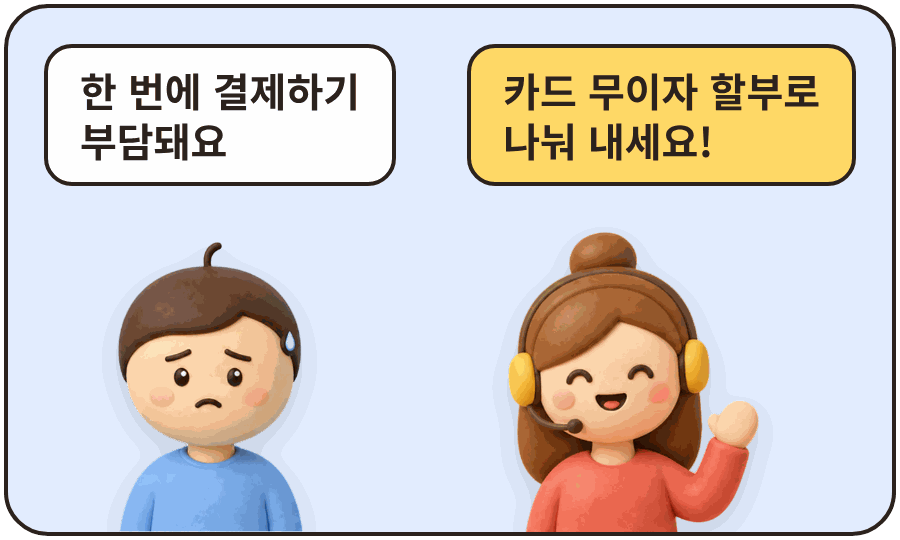
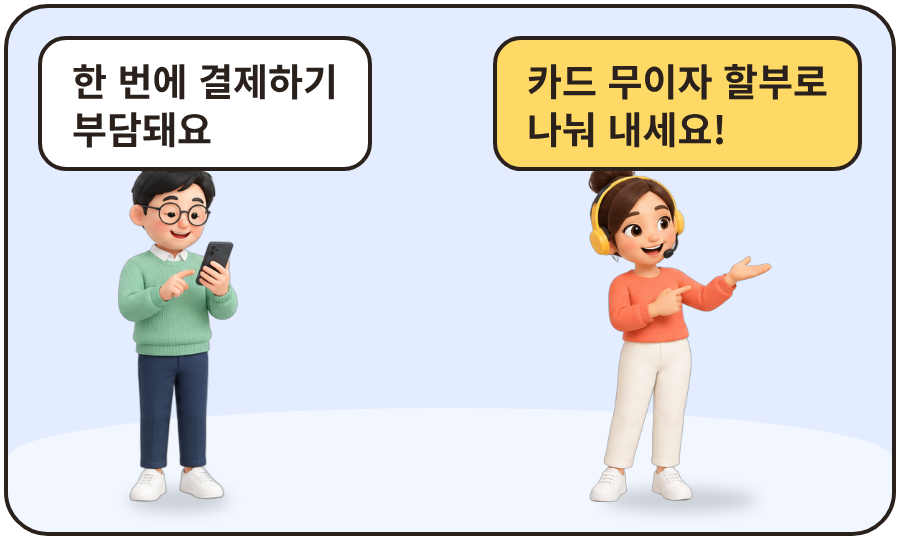
Event posts: redraw with the new 3D cast, no turtle
New fixed 3D cast (student, teacher, adult learner) in tools/3d/cast with
18 cut-out poses and a README on how to make more. compose_cast.py
redraws the banners, scenes and strips of event posts 130, 205, 206,
207, 211 and 887 with them, at the same file names so the posts pick
them up without edits.

Claude-Session: https://claude.ai/code/session_01HUwuhevVJsp4MKRQXDpWmN

diff --git a/tools/3d/compose_cast.py b/tools/3d/compose_cast.py
@@ -1,0 +1,155 @@
+"""3D 출연진(학생·선생님·성인 수강생)으로 이벤트 글 배너와 본문 그림을 만든다. 거북이는 쓰지 않는다.
+사용법: python3 tools/3d/compose_cast.py event
+캐릭터 컷: tools/3d/cast/<인물>-<포즈>.png  (README 참고)
+"""
+import sys, os
+from playwright.sync_api import sync_playwright
+
+root = sys.argv[1]
+HERE = os.path.dirname(os.path.abspath(__file__))
+CAST = 'file://' + HERE + '/cast/'
+PR = 'file://' + HERE + '/props/c_'
+F = "'Noto Sans CJK KR',sans-serif"
+INK = '#2A211D'
+
+
+def ch(name, h, x, bottom=28, flip=False, extra=''):
+    """전신 캐릭터. 발이 잘리지 않게 바닥에서 띄우고 그림자를 깐다."""
+    t = 'transform:scaleX(-1);' if flip else ''
+    return (f'<div style="position:absolute;left:{x}px;bottom:{bottom}px;height:{h}px">'
+            f'<div style="position:absolute;left:8%;right:8%;bottom:-10px;height:{h*.07:.0f}px;border-radius:50%;background:rgba(0,0,0,.16);filter:blur(7px)"></div>'
+            f'<img src="{CAST}{name}.png" style="position:relative;height:{h}px;{t}{extra}"></div>')
+
+
+def prop(name, h, x, y, extra=''):
+    return f'<img src="{PR}{name}.png" style="position:absolute;left:{x}px;top:{y}px;height:{h}px;filter:drop-shadow(0 10px 14px rgba(0,0,0,.14));{extra}">'
+
+
+def big(text, size, color='#fff', stroke=INK, sw=6):
+    return f'<div style="font:900 {size}px/1.02 {F};color:{color};letter-spacing:-.03em;-webkit-text-stroke:{sw}px {stroke};paint-order:stroke fill;white-space:nowrap">{text}</div>'
+
+
+def pill(text, bg='#FFD966', color=INK, size=36):
+    return f'<div style="display:inline-block;background:{bg};border:4px solid {INK};border-radius:40px;padding:8px 28px;font:800 {size}px/1.2 {F};color:{color}">{text}</div>'
+
+
+def line(text, size, color=INK):
+    return f'<div style="font:800 {size}px/1.22 {F};color:{color};letter-spacing:-.02em">{text}</div>'
+
+
+def dots(colors):
+    pts = [(80, 120, 18), (990, 90, 14), (60, 600, 12), (1010, 560, 16), (520, 40, 10), (930, 960, 12)]
+    return ''.join(f'<div style="position:absolute;left:{x}px;top:{y}px;width:{s}px;height:{s}px;border-radius:50%;background:{colors[i % len(colors)]};opacity:.9"></div>' for i, (x, y, s) in enumerate(pts))
+
+
+def floor(color, top=820):
+    return f'<div style="position:absolute;left:-10%;right:-10%;top:{top}px;bottom:-200px;background:{color};border-radius:50% 50% 0 0/80px 80px 0 0"></div>'
+
+
+# ── 배너 1080×1080: 글마다 색·구도가 다르다 ─────────────────────────
+B = {}
+# 130 월 이벤트: 코랄 · 셋이 함께
+B['130'] = f"""<div style="position:absolute;inset:0;background:#EC6856;overflow:hidden">{dots(['#fff', '#FFD966'])}{floor('#F6907F', 800)}
+<div style="position:absolute;left:0;right:0;top:66px;text-align:center">{pill('이번 달 이벤트')}
+<div style="margin-top:22px">{line('아인잉글리쉬', 58, '#fff')}</div><div style="margin-top:2px">{big('혜택 7가지', 156, '#FFD966')}</div>
+<div style="margin-top:18px;display:flex;gap:12px;justify-content:center">{''.join(pill(t, '#fff', INK, 28) for t in ['신규', '재수강', '친구 추천', '누구나'])}</div></div>
+{ch('student-cheer', 500, 40)}{ch('teacher-wave', 540, 400)}{ch('adult-thumbs', 530, 750)}
+</div>"""
+# 206 무이자 할부: 파랑 그라데이션 · 카드 든 성인 수강생
+B['206'] = f"""<div style="position:absolute;inset:0;background:linear-gradient(160deg,#7DB0F7,#4F86E6);overflow:hidden">{dots(['#fff', '#FFD966'])}
+<div style="position:absolute;left:84px;top:110px">{pill('카드 결제 부담 DOWN')}
+<div style="margin-top:34px">{line('5만원 이상이면', 64, '#fff')}</div>
+<div style="margin-top:6px">{big('무이자', 190)}</div><div style="margin-top:4px">{big('할부', 190, '#FFD966')}</div>
+<div style="margin-top:26px">{line('최대 6개월까지', 50, '#fff')}</div></div>
+{prop('prop-card', 230, 560, 150, 'transform:rotate(-12deg)')}
+{ch('adult-card', 700, 640, 40)}
+</div>"""
+# 207 지인 추천: 초록 · 추천하는 수강생 + 친구
+B['207'] = f"""<div style="position:absolute;inset:0;background:radial-gradient(circle at 50% 30%,#7CD6A0,#3FAE72);overflow:hidden">{dots(['#fff', '#FFD966'])}
+<div style="position:absolute;left:0;right:0;top:70px;text-align:center">{pill('지인 추천 이벤트', '#fff')}
+<div style="margin-top:24px">{line('추천하면 둘 다', 62, '#fff')}</div>
+<div style="margin-top:6px;display:flex;justify-content:center;align-items:center;gap:18px">{big('5%', 190)}<span style="font:900 100px/1 {F};color:#FFD966;-webkit-text-stroke:5px {INK};paint-order:stroke fill">+</span>{big('5%', 190)}</div></div>
+{prop('prop-coin', 120, 480, 640, 'transform:rotate(-14deg)')}
+{ch('adult-recommend', 520, 70)}{ch('student-gift', 480, 640)}
+</div>"""
+# 205 체험 후기: 노랑 · 휴대폰으로 후기 쓰는 학생 + 말풍선·동전
+B['205'] = f"""<div style="position:absolute;inset:0;background:#FFD45E;overflow:hidden">{dots(['#fff', '#EC6856'])}
+<div style="position:absolute;left:0;top:0;width:520px;height:1080px;background:#FFC23D;border-radius:0 300px 300px 0"></div>
+{prop('prop-bubble', 170, 300, 150, 'transform:rotate(-6deg)')}{prop('prop-coins', 150, 330, 820)}
+{ch('student-phone', 640, 90, 50)}
+<div style="position:absolute;left:560px;top:250px">{pill('신규 회원 선물', '#fff', size=34)}
+<div style="margin-top:28px">{line('무료체험<br>후기 쓰면', 58)}</div>
+<div style="margin-top:14px;display:flex;align-items:flex-end;gap:6px">{big('3,000', 150, '#EC6856')}{big('원', 90, '#EC6856', sw=5)}</div>
+<div style="margin-top:18px">{line('바로 적립!', 54)}</div></div>
+</div>"""
+# 211 첫 결제 5%: 연한 복숭아 · 선물 든 학생 + 박수 치는 선생님
+B['211'] = f"""<div style="position:absolute;inset:0;background:#FFE7DE;overflow:hidden">{dots(['#EC6856', '#FFD966'])}{floor('#FFD3C4', 790)}
+<div style="position:absolute;left:0;right:0;top:70px;text-align:center">{pill('신규회원 전용')}
+<div style="margin-top:22px">{line('첫 결제하면', 66)}</div>
+<div style="margin-top:4px;display:flex;justify-content:center;align-items:flex-end;gap:8px">{big('5%', 210, '#EC6856')}{big('적립', 110, '#EC6856', sw=5)}</div>
+<div style="margin-top:14px">{line('1·3·6개월 수강권 · 주 2회 이상', 38, '#7a5a50')}</div></div>
+{prop('prop-gift', 140, 470, 600, 'transform:rotate(8deg)')}
+{ch('student-gift', 500, 90)}{ch('teacher-clap', 540, 660)}
+</div>"""
+# 887 3회 맛보기: 청록 · 고민하는 학생 + 괜찮다는 선생님
+B['887'] = f"""<div style="position:absolute;inset:0;background:#2F9C95;overflow:hidden">{dots(['#fff', '#FFD966'])}{floor('#3FB3AB', 800)}
+<div style="position:absolute;left:0;right:0;top:66px;text-align:center">{pill('신규회원 한정')}
+<div style="margin-top:22px">{line('25분 수업 3회', 72, '#fff')}</div>
+<div style="margin-top:4px;display:flex;justify-content:center;align-items:flex-end;gap:6px">{big('10,000', 190, '#FFD966')}{big('원', 100, '#FFD966', sw=5)}</div>
+<div style="margin-top:14px">{line('1회당 약 3,300원 · 정규수업과 같은 방식', 36, '#E6FFFB')}</div></div>
+{ch('student-think', 500, 130)}{ch('teacher-thumbs', 540, 620)}
+</div>"""
+
+
+# ── 본문 장면 900×540: 두 사람 + 말풍선 ─────────────────────────────
+def bub(text, bg='#fff', fs=38):
+    return f'<div style="background:{bg};border:4px solid {INK};border-radius:28px;padding:{fs*.42:.0f}px {fs*.8:.0f}px;font:700 {fs}px/1.25 {F};color:{INK};white-space:nowrap">{text}</div>'
+
+
+def duo(lt, lc, lh, rt, rc, rh, bg):
+    return f"""<div style="position:absolute;inset:4px;background:{bg};border:4px solid {INK};border-radius:44px;overflow:hidden">
+<div style="position:absolute;left:0;right:0;top:400px;bottom:-100px;background:rgba(255,255,255,.55);border-radius:50% 50% 0 0/50px 50px 0 0"></div>
+{ch(lc, lh, 110, 30)}{ch(rc, rh, 580, 30)}
+<div style="position:absolute;left:30px;top:28px;z-index:2">{bub(lt)}</div><div style="position:absolute;right:30px;top:28px;z-index:2">{bub(rt, '#FFD966')}</div></div>"""
+
+
+S = {
+    '130': duo('친구랑 같이<br>시작할래요!', 'adult-recommend', 345, '두 분 다 5%씩<br>적립해 드려요!', 'teacher-clap', 345, '#E6F6EE'),
+    '206': duo('한 번에 결제하기<br>부담돼요', 'adult-phone', 345, '카드 무이자 할부로<br>나눠 내세요!', 'teacher-explain', 345, '#E3EDFF'),
+    '207': duo('친구한테 아인<br>추천했어요!', 'adult-recommend', 345, '덕분에 저도<br>5% 받았어요!', 'student-gift', 315, '#E6F6EE'),
+    '205': duo('체험 후기<br>남겼어요!', 'student-phone', 335, '3,000원<br>적립해 드릴게요!', 'teacher-thumbs', 345, '#FFF6D6'),
+    '211': duo('첫 결제인데<br>혜택 있어요?', 'adult-card', 345, '결제 금액의 5%를<br>바로 드려요!', 'teacher-explain', 345, '#FFF1EC'),
+    '887': duo('15분 체험으론<br>아직 잘 모르겠어요', 'student-think', 325, '3번 더 해 보고<br>정해도 돼요!', 'teacher-thumbs', 345, '#E4F5F3'),
+}
+
+
+# ── 좁은 띠 그림(투명 배경): 캐릭터 한 명 + 큰 말풍선 ───────────────
+def strip(w, who, text):
+    return f"""<div style="position:absolute;inset:0;display:flex;align-items:center;gap:26px;padding:0 10px">
+<img src="{CAST}{who}.png" style="height:218px;flex:none">
+<div style="background:#fff;border:5px solid {INK};border-radius:30px;padding:20px 30px;font:800 42px/1.25 {F};color:{INK};letter-spacing:-.02em">{text}</div></div>"""
+
+
+X = {
+    ('130', 'scene-store.png', 600): strip(600, 'adult-phone', '3만원 내고<br>4만원 받기!'),
+    ('211', 'scene-use.png', 720): strip(720, 'student-gift', '모은 적립금은<br>다음 수강 때 쓰면 돼요!'),
+    ('887', 'scene-report.png', 720): strip(720, 'teacher-report', '수업이 끝나면<br>일일평가서가 와요!'),
+}
+BANNER_FILE = {'130': 'banner.png', '206': 'banner.jpg', '207': 'banner.jpg', '205': 'banner.jpg', '211': 'banner.png', '887': 'banner.png'}
+SCENE_FILE = {'130': 'scene-friend.png'}
+
+jobs = []
+for pid, html in B.items(): jobs.append((f'{root}/{pid}/{BANNER_FILE[pid]}', 1080, 1080, html, False))
+for pid, html in S.items(): jobs.append((f'{root}/{pid}/{SCENE_FILE.get(pid, "scene-hello.png")}', 900, 540, html, True))
+for (pid, name, w), html in X.items(): jobs.append((f'{root}/{pid}/{name}', w, 230, html, True))
+
+with sync_playwright() as p:
+    b = p.chromium.launch(executable_path='/usr/bin/google-chrome')
+    for path, w, h, html, transparent in jobs:
+        tmp = '/tmp/cast_job.html'
+        open(tmp, 'w').write(f'<html><body style="margin:0;width:{w}px;height:{h}px;position:relative;overflow:hidden;background:transparent">{html}</body></html>')
+        pg = b.new_page(viewport={'width': w, 'height': h}); pg.goto('file://' + tmp); pg.wait_for_timeout(300)
+        if path.endswith('.jpg'): pg.screenshot(path=path, type='jpeg', quality=92)
+        else: pg.screenshot(path=path, omit_background=transparent)
+        pg.close(); print(path)
+    b.close()

diff --git a/tools/3d/cast/README.md b/tools/3d/cast/README.md
@@ -1,0 +1,37 @@
+# 아인잉글리쉬 3D 출연진 (2026-11-26~)
+
+블로그·이벤트·페이지 그림에 쓰는 고정 출연진 3명입니다. **거북이는 쓰지 않습니다.**
+모두 같은 찰흙(클레이) 3D 질감, 머리부터 신발까지 나오는 전신(머리 크기 약 1/3)으로 맞췄습니다.
+`_lineup.png`가 세 명이 나란히 선 기준 그림입니다.
+
+| 인물 | 생김새 | 파일 |
+|---|---|---|
+| 학생 | 갈색 바가지 머리 + 머리 위 새싹 한 가닥, 하늘색 스웨터, 베이지 바지, 흰 운동화 | `student-*.png` |
+| 선생님 | 필리핀 선생님, 갈색 올림머리, 노란 헤드셋(검은 마이크), 코랄 상의, 크림색 바지 | `teacher-*.png` |
+| 성인 수강생 | 30대 한국 남성, 짧은 검은 머리, 둥근 안경, 민트 니트 + 흰 셔츠 깃, 남색 바지 | `adult-*.png` |
+
+## 포즈 (배경을 지운 PNG)
+
+- 학생: `cheer`(두 팔 번쩍) · `wave` · `phone`(휴대폰 입력) · `gift`(선물 상자) · `think`(턱에 손가락) · `present`(옆을 가리키며 소개)
+- 선생님: `wave` · `thumbs`(엄지 척) · `report`(평가서 클립보드) · `explain`(옆을 가리키며 설명) · `clap`(박수) · `book`(영어책)
+- 성인 수강생: `card`(카드) · `phone` · `wave` · `thumbs` · `coffee`(머그잔) · `recommend`(옆을 가리키며 추천)
+
+상황에 맞는 포즈를 먼저 여기서 고르고, 없을 때만 새로 만듭니다.
+
+## 새 포즈 만드는 법
+
+Figma `generate_image`(gpt-image-2.5-flare, 1536×1024)로 한 인물의 포즈 6개를 3열×2행 시트로 만들고,
+칸별로 잘라 `rembg`(isnet-general-use)로 배경을 지웁니다. 프롬프트 기본형:
+
+> Pose sheet of ONE character shown six times in a neat 3 columns x 2 rows grid with generous empty space between poses,
+> every pose full body from head to white sneakers, no overlapping, cute 3D clay-style character like premium 3D icons,
+> soft matte clay texture, gentle studio lighting, pure white background, no floor shadow, no text.
+> The character: (위 표의 생김새를 영어로 그대로) Poses: 1) … 6) …
+
+생김새 문장은 바꾸지 않고 그대로 써야 같은 인물로 나옵니다.
+
+## 쓰는 곳
+
+- 이벤트 글 그림: `tools/3d/compose_cast.py` (`python3 tools/3d/compose_cast.py event`)
+- 소품(카드·동전·선물·말풍선 등): `tools/3d/props/`
+- 예전 3D 컷(`tools/3d/cut/`, 거북이 포함)은 더 이상 쓰지 않습니다.
